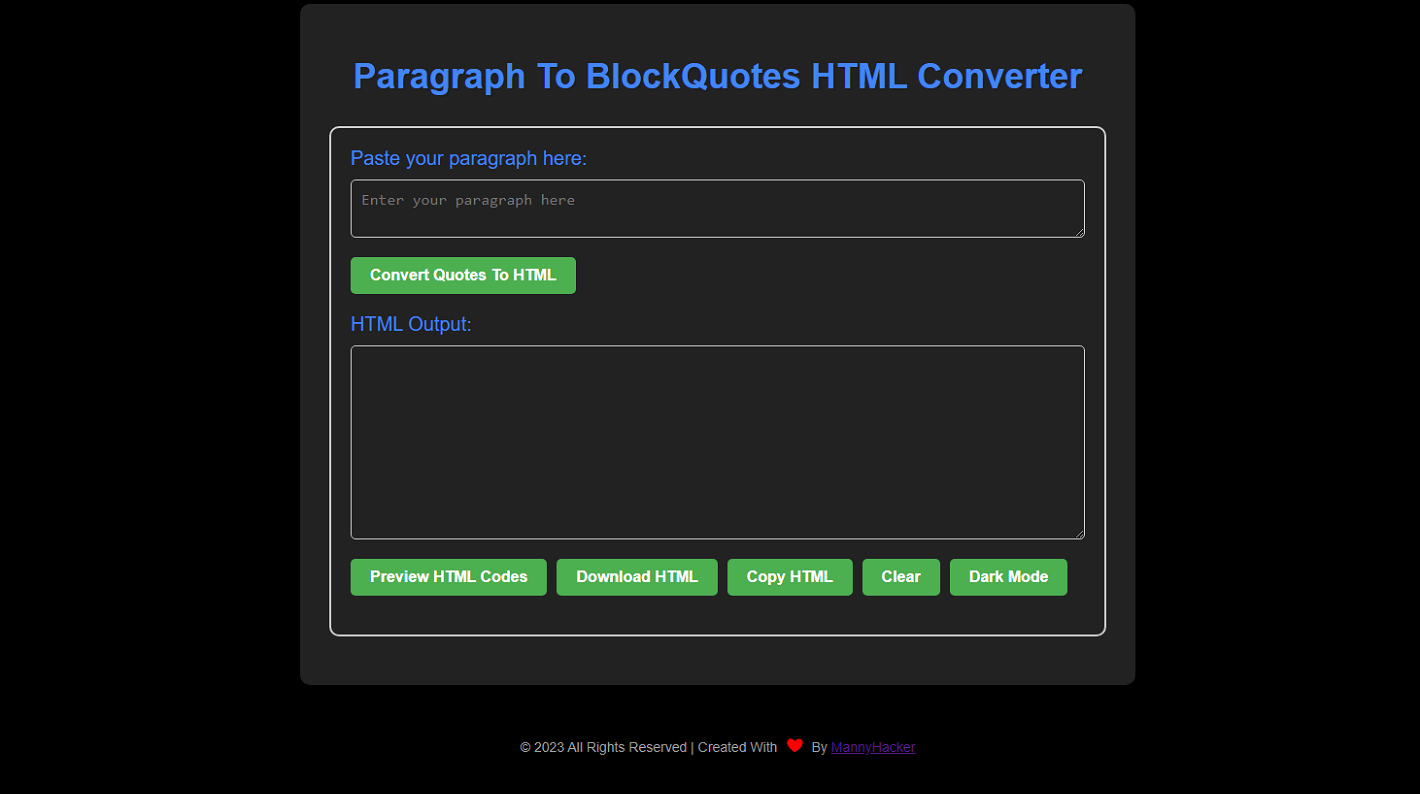
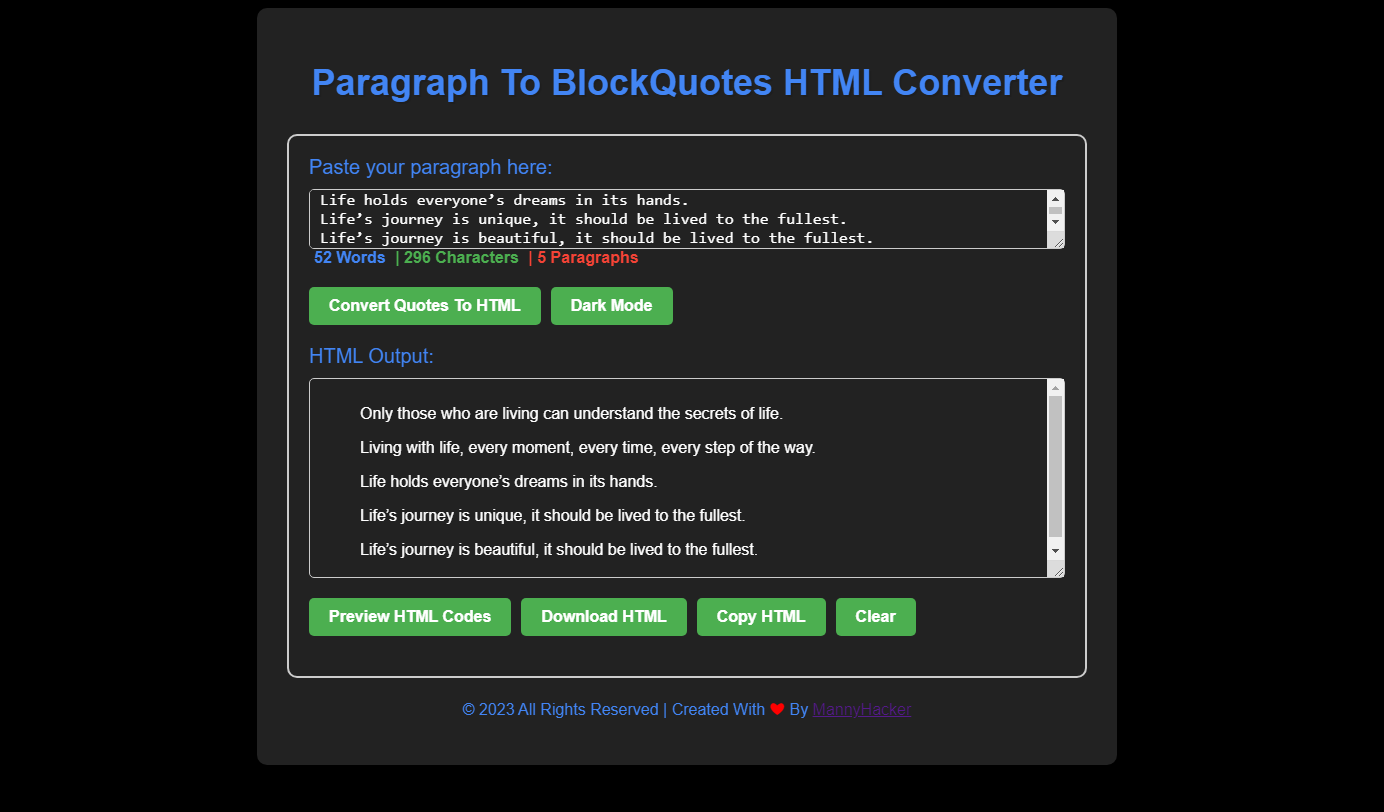
Added Paragraph Count Features & Changed Footer Credit Location

Changed region(s): [[0.1864, 0.0, 0.8078, 0.9673]]

diff --git a/script.js b/script.js
@@ -157,11 +157,14 @@ function countWordsAndChars() {
   const inputParagraph = paragraph.value;
   const wordCount = inputParagraph.trim().split(/\s+/).filter(Boolean).length;
   const charCount = inputParagraph.length;
+  const paragraphCount = inputParagraph.split('\n').filter(Boolean).length;
   const wordCountSpan = document.getElementById('word-count');
   const charCountSpan = document.getElementById('char-count');
-  wordCountSpan.textContent = `${wordCount} ${wordCount === 1 ? 'word' : 'words'}`;
-  charCountSpan.textContent = `| ${charCount} ${charCount === 1 ? 'character' : 'characters'}`;
-  // Add CSS styles to the word and character count
+  const paragraphCountSpan = document.getElementById('paragraph-count');
+  wordCountSpan.textContent = `${wordCount} ${wordCount === 1 ? 'Word' : 'Words'}`;
+  charCountSpan.textContent = `| ${charCount} ${charCount === 1 ? 'Character' : 'Characters'}`;
+  paragraphCountSpan.textContent = `| ${paragraphCount} ${paragraphCount === 1 ? 'Paragraph' : 'Paragraphs'}`;
+  // Add CSS styles to the word, character and paragraph count
   wordCountSpan.style.fontWeight = 'bold';
   wordCountSpan.style.color = '#4285f4';
   wordCountSpan.style.marginTop = '10px';
@@ -170,6 +173,10 @@ function countWordsAndChars() {
   charCountSpan.style.color = '#4caf50';
   charCountSpan.style.marginTop = '10px';
   charCountSpan.style.marginLeft = '5px';
+  paragraphCountSpan.style.fontWeight = 'bold';
+  paragraphCountSpan.style.color = '#f44336';
+  paragraphCountSpan.style.marginTop = '10px';
+  paragraphCountSpan.style.marginLeft = '5px';
 }
 
 paragraph.addEventListener('input', () => {

diff --git a/index.html b/index.html
@@ -16,10 +16,12 @@
                  <div class="counts">
                 <span id="word-count"></span>
                 <span id="char-count"></span>
+				<span id="paragraph-count"></span>
                 </div>
             </div>
             <div class="buttons">
                 <button id="convert-btn" class="green-button" title="Convert Quotes To HTML">Convert Quotes To HTML</button>
+				<button id="dark-mode-btn" class="green-button" title="Toggle Dark Mode">Dark Mode</button>
             </div>
             <div class="output-block">
                 <label for="output">HTML Output:</label>
@@ -30,13 +32,10 @@
                 <button id="download-btn" class="green-button" title="Download HTML">Download HTML</button>
                 <button id="copy-btn" class="green-button" title="Copy HTML">Copy HTML</button>
                 <button id="clear-btn" class="green-button" title="Clear">Clear</button>
-                <button id="dark-mode-btn" class="green-button" title="Toggle Dark Mode">Dark Mode</button>
             </div>
         </div>
+		<p class="text-center">&copy; 2023 All Rights Reserved | Created With <span style="color: red;">&#10084;</span> By <a href="https://telegram.me/MannyHacker">MannyHacker</a></p>
     </div>
     <script src="script.js"></script>
-<footer>
-  <p>&copy; 2023 All Rights Reserved | Created With <span style="color: red;">&#10084;</span> By <a href="https://telegram.me/MannyHacker">MannyHacker</a></p>
-</footer>
 </body>
 </html>

diff --git a/style.css b/style.css
@@ -166,20 +166,9 @@ textarea {
     }
 }
 
-footer {
+.text-center {
   text-align: center;
-  font-size: 14px;
-  color: #999;
-  margin-top: 50px;
-}
-
-footer p {
-  margin-bottom: 10px;
-}
-
-footer span {
-  font-size: 18px;
-  margin: 0 5px;
+  color: #4285f4;
 }
 
 /* Dark Mode Styles */

diff --git a/README.md b/README.md
@@ -10,7 +10,7 @@ This is a simple web-based tool that allows you to convert a paragraph to blockq
 - Copy the HTML output to the clipboard
 - Clear the HTML output from the output div
 - Toggle dark mode for better readability
-
+- Count the number of paragraphs, words, and characters in the input text
 ## Installation
 
 You can install this tool by cloning the repository:
